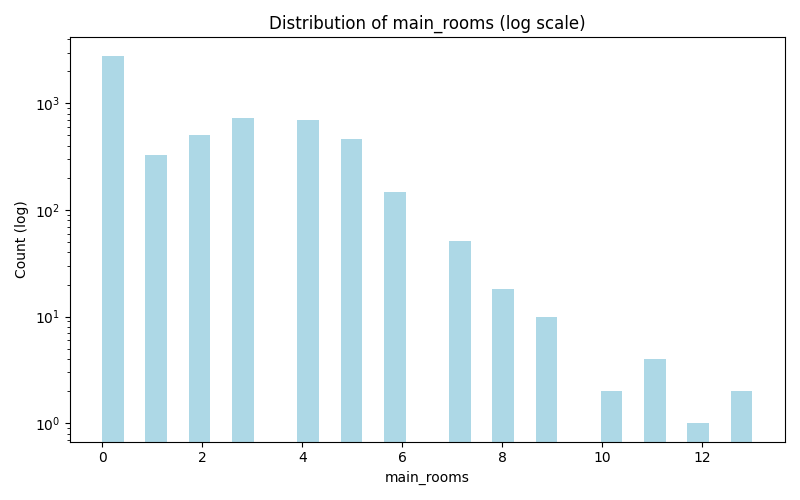
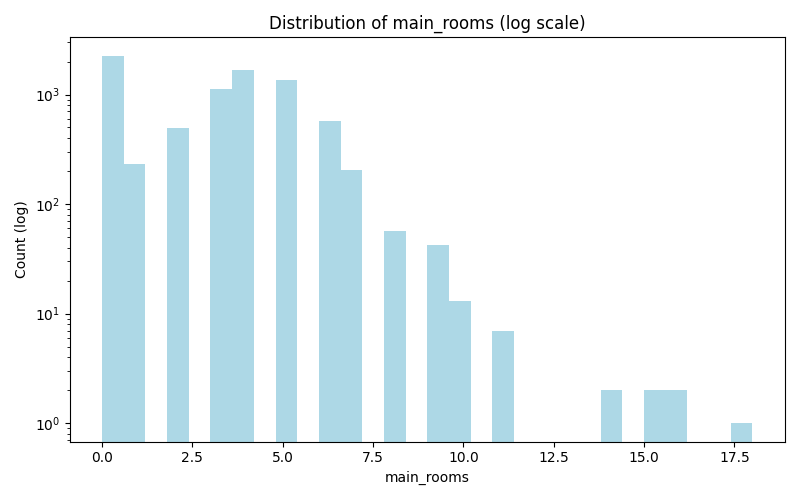
descriptive stats 2

diff --git a/fpi/analysis/explore.py b/fpi/analysis/explore.py
@@ -1,62 +1,56 @@
 import pandas as pd
+from pathlib import Path
 
 from fpi.analysis.utils_io import print_info
-from fpi.analysis.utils_plot import save_hist
-from fpi.utils.constants import NUMERIC_VARS, VARS_TO_KEEP_FR
 from fpi.analysis.utils_stats import statdes
 from fpi.analysis.utils_plot import save_hist, save_lv
 from fpi.utils.constants import NUMERIC_VARS, VARS_TO_KEEP
 
 
-def load_data(file_path: str) -> pd.DataFrame:
+def load_data(cleaned_path: str = "data/cleaned") -> pd.DataFrame:
     """
-    Load the dataset from a raw text file.
-
-    :param file_path: Path to the raw dataset
-    :return: Pandas DataFrame
+    load automatically latest cleaned data.
     """
-    return pd.read_csv(file_path, sep="|", header=0)
+    cleaned_dir = Path(cleaned_path)
+    all_files = sorted(cleaned_dir.rglob("cleaned_*.csv"), reverse=True)
+    if not all_files:
+        raise FileNotFoundError("No file found in data/cleaned/")
+    
+    latest_file = all_files[0]
+    print(f"Load succeeded: {latest_file.name}")
+    return pd.read_csv(latest_file)
 
 
 def preprocess(df: pd.DataFrame) -> pd.DataFrame:
     """
-    Select only the variables we want to keep and rename them in English.
-
-    :param df: Raw DataFrame
-    :return: Cleaned DataFrame with English column names
+    Only keeps important variables.
     """
-    df = df[VARS_TO_KEEP_FR]
-    df.columns = [
-        "land_value",
-        "postal_code",
-        "building_surface",
-        "mutation_date",
-        "land_surface",
-        "main_rooms",
-    ]
+    df = df[[col for col in VARS_TO_KEEP if col in df.columns]]
     return df
 
 
 def exp() -> None:
     """
-    Main exploration pipeline:
-    - Load
-    - Inspect
-    - Preprocess
-    - print descriptive statistics
-    - Save visualizations
+    Exploratory pipeline :
+    1.Loading
+    2. Cleaning columns
+    3. Descriptive stats
+    4. Graphs
     """
-    df = load_data("data/raw/sample2024.txt")
+    df = load_latest_data()
     print_info(df)
 
     df_clean = preprocess(df)
     statdes(df_clean)
+
+    # Histogramm
     save_hist(df_clean, NUMERIC_VARS, output_dir="docs/plots")
 
-    print("Plots saved in docs/plots/")
-    save_lv(df_clean, "land_value", output_dir="docs/plots")
+    # Boxplots per key variable
+    save_lv(df_clean, "property_value", output_dir="docs/plots")
 
-    print("Plots saved in docs/plots/")
+    print("\n Graphs saved in docs/plots/.")
+
 
 if __name__ == "__main__":
     exp()
